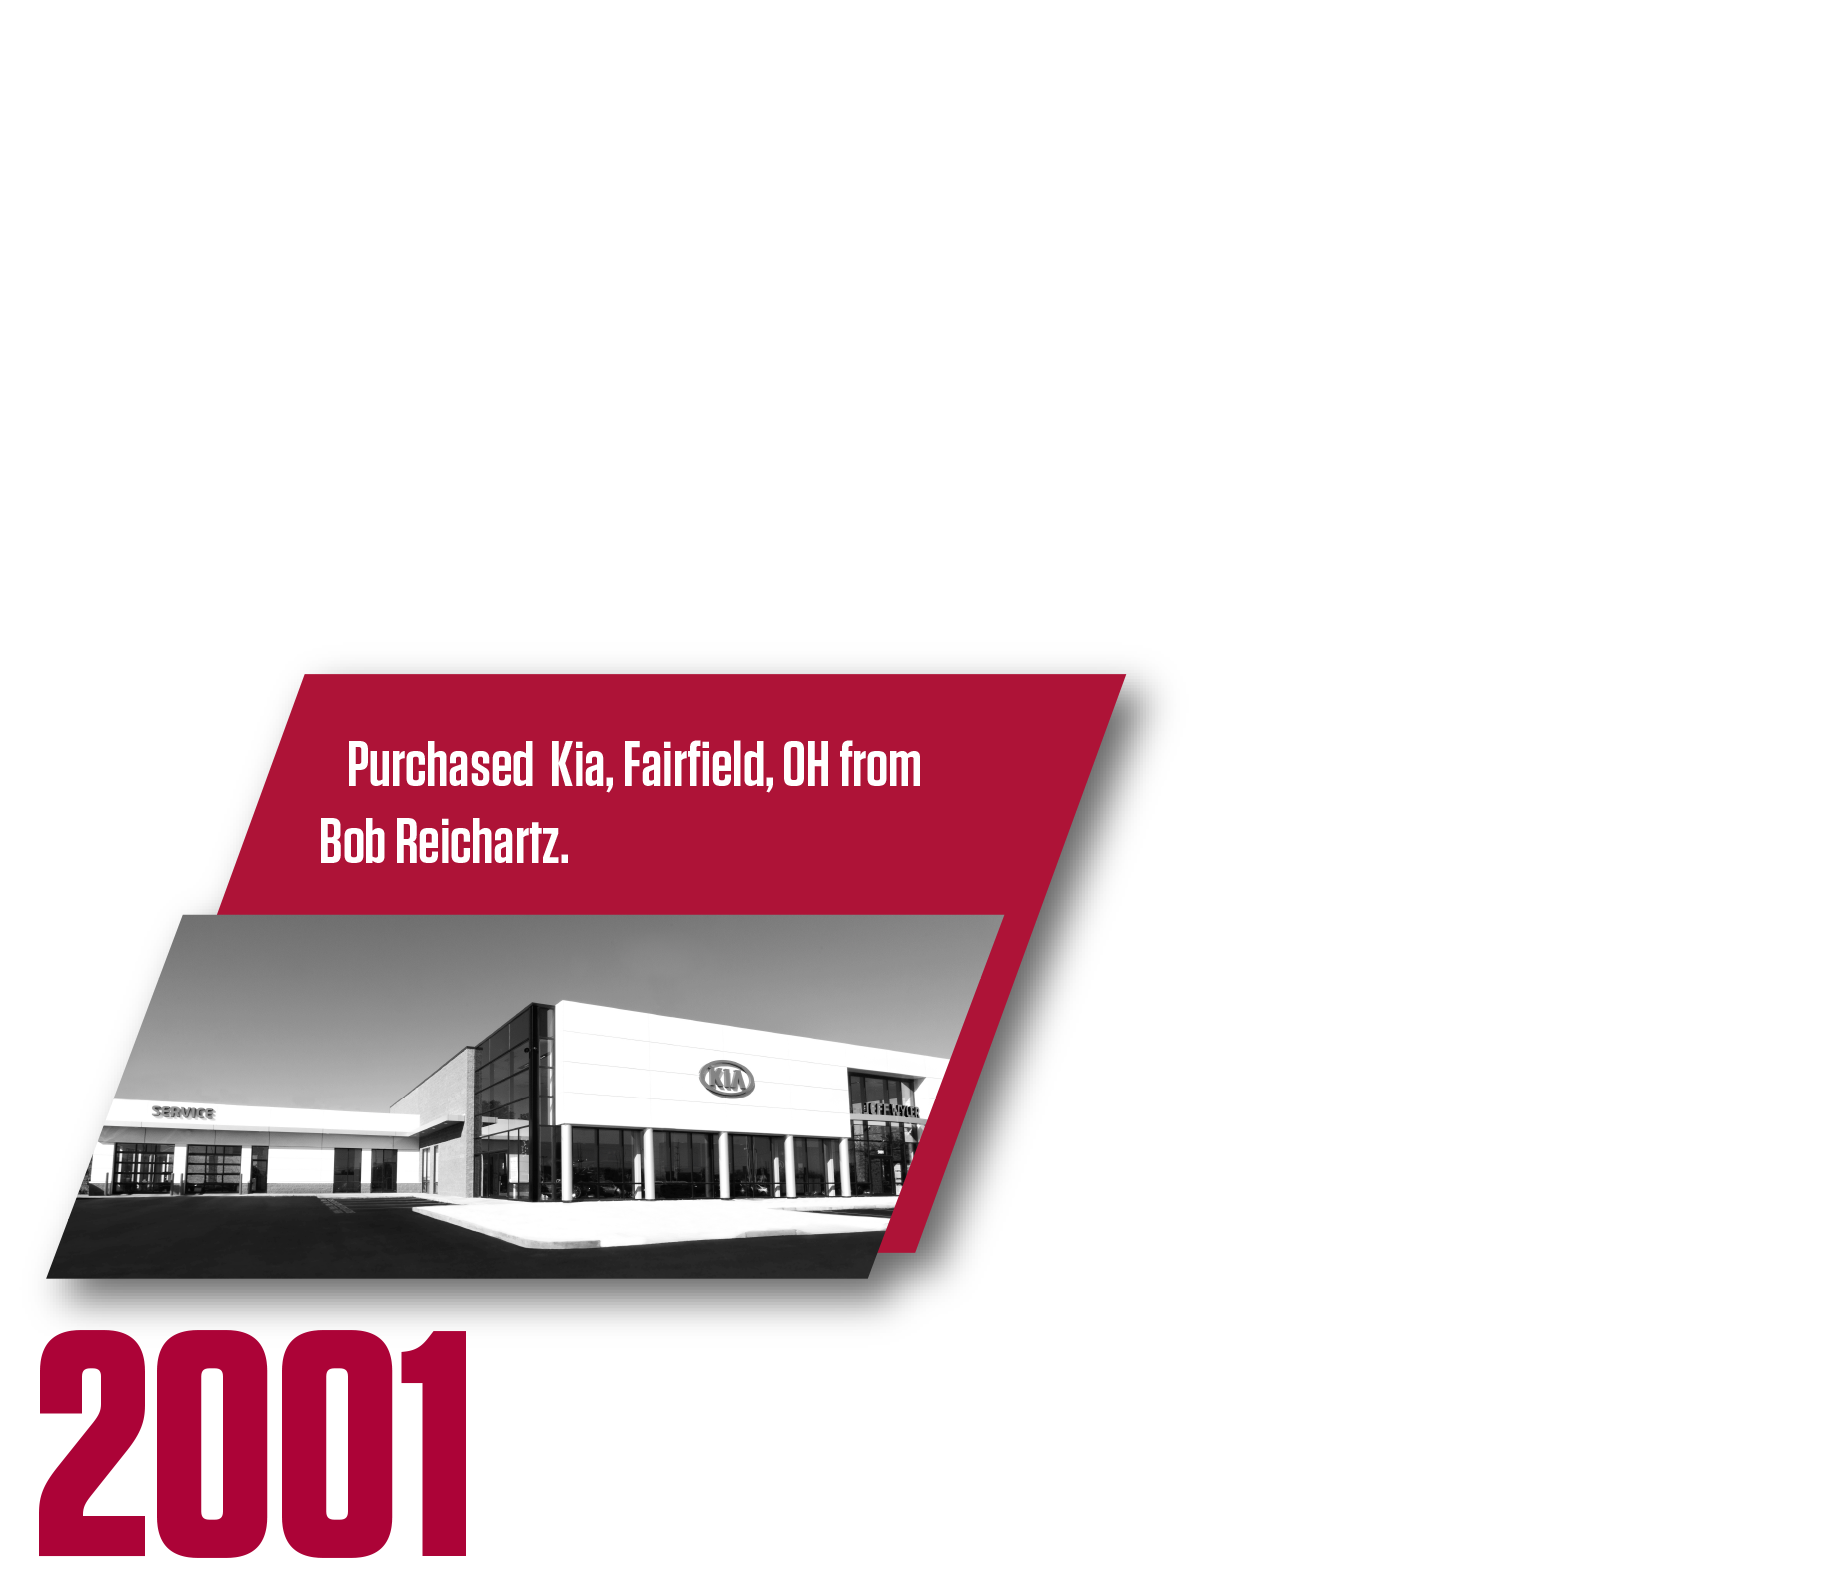
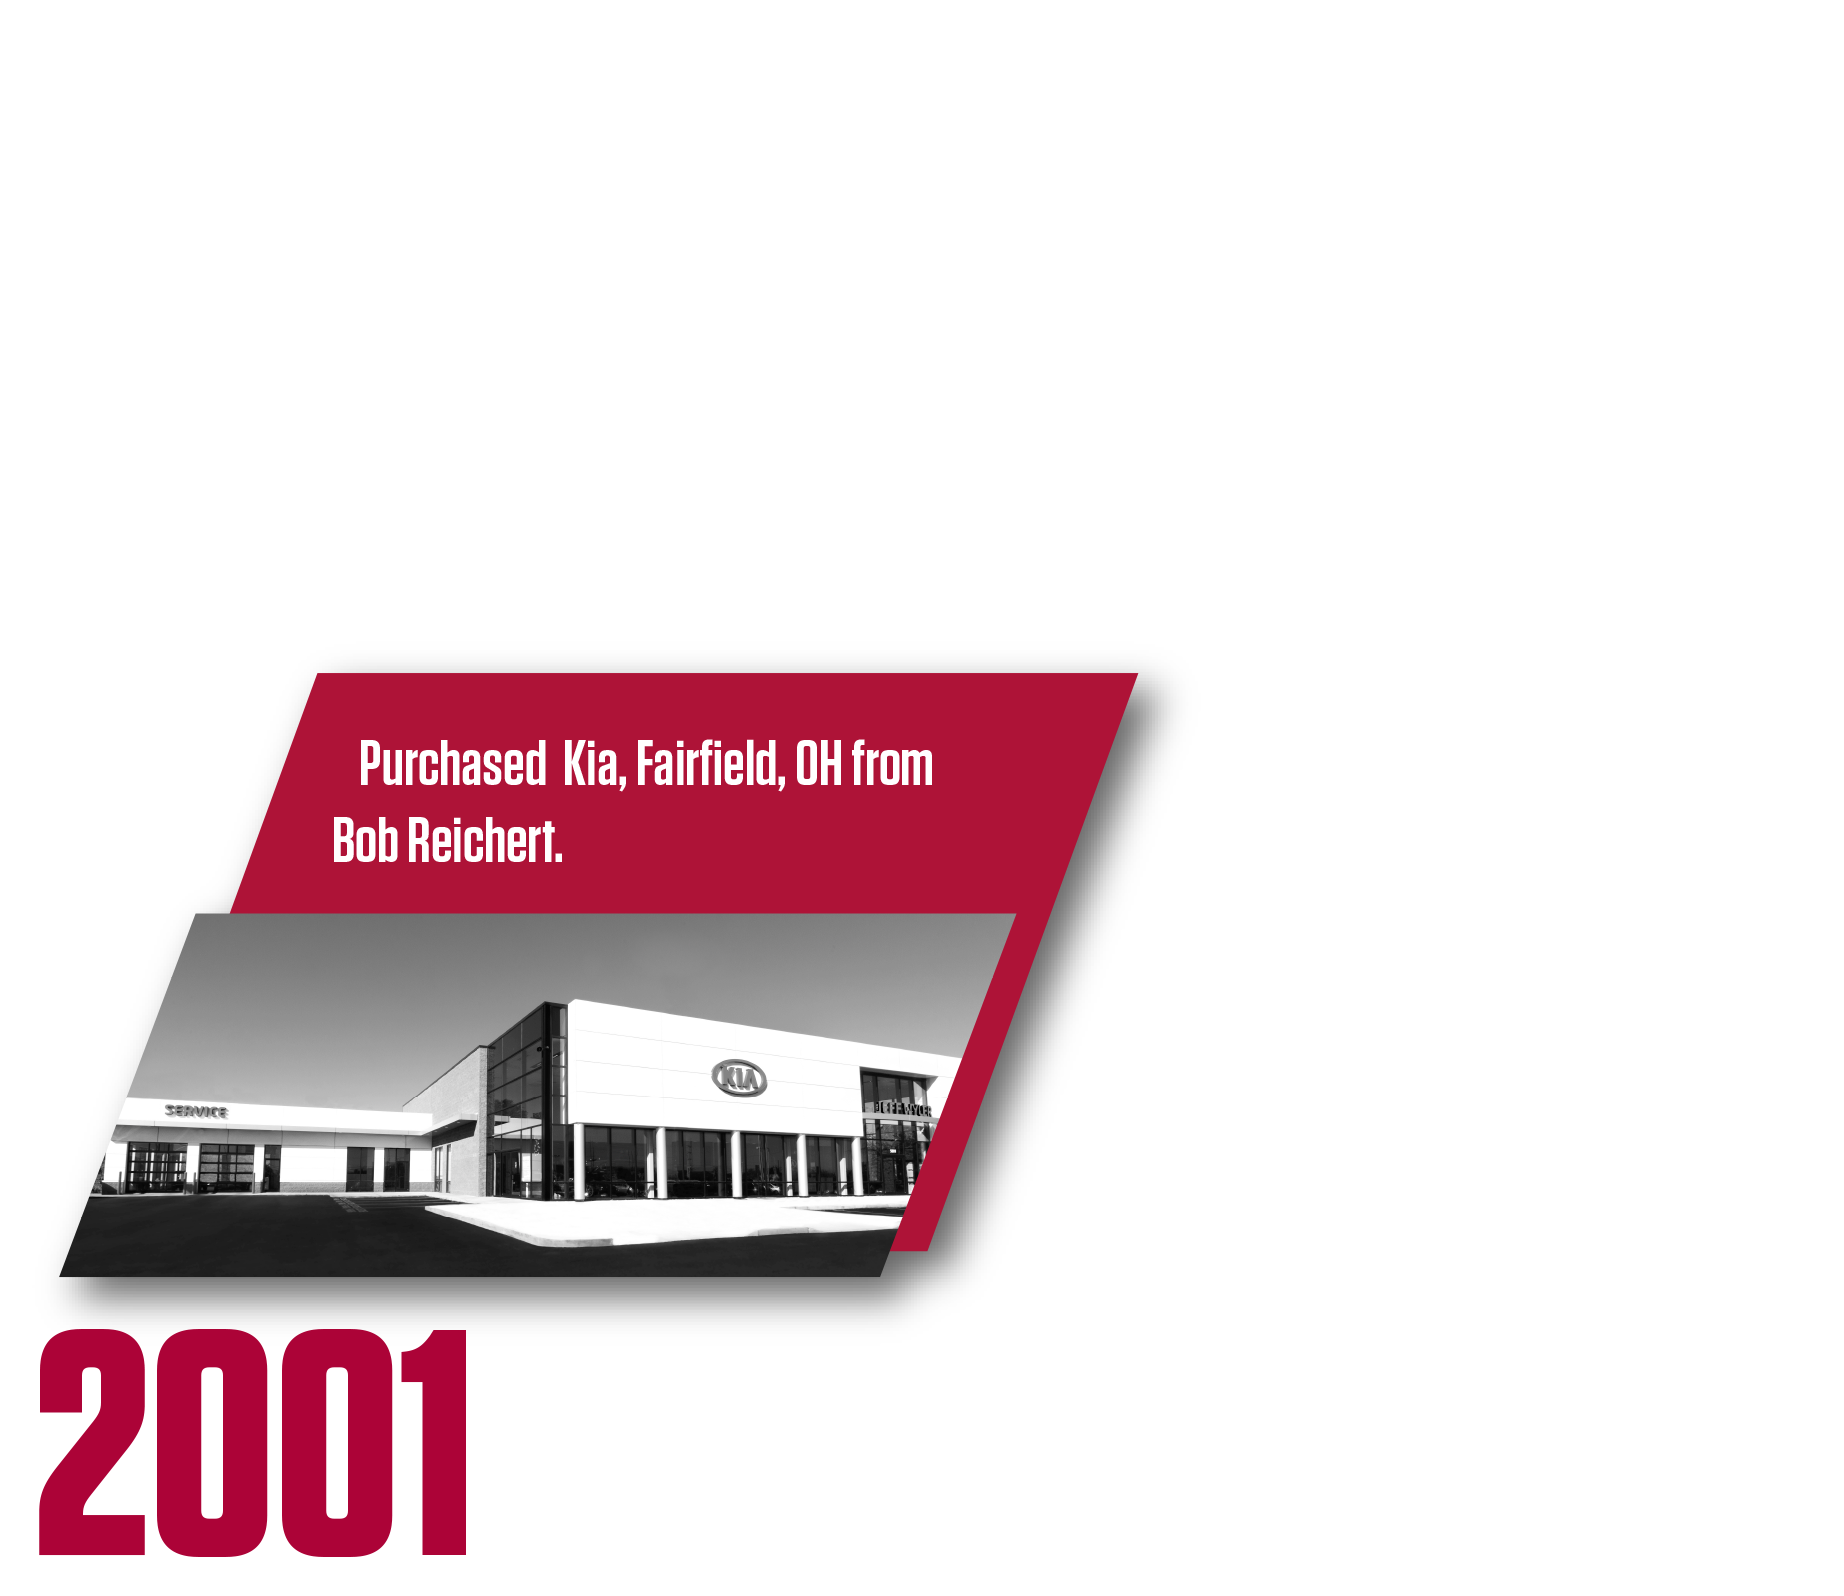
finished

diff --git a/CSS/oreo.css b/CSS/oreo.css
@@ -20,17 +20,18 @@ body{
 
     .wyler-back{
         background: url(../img/BKG2.JPG);
-        width: 612px;
+        width: 630px;
         /* background: url(../img/Background\ White\ 50.jpg); */
         background-size: 170%;
         background-position: center;
-        padding: 5em 0;
+        padding: 0em 0;
     }
 
 
     img{
         transition: 1s;
         width: 420px;
+        margin-top: 5em;
         /* overflow-x: hidden; */
         /* background: red; */
         /* margin: 0 -62px; */
@@ -43,114 +44,42 @@ body{
     }
 
 
-    .b{
+    .b, .j, .p{
+        width: 453px;
+    }
+
+    .d, .m, .r, .v{
         width: 440px;
     }
 
-
-    .img0{
-        margin-top: 3em;
-        /* padding-left: -2px ; */
-
+    .e, .k{
+        width: 445px;
     }
 
-    .img1{
-        margin-top: 3em;
-        /* padding-left: 3.8em; */
-    }
-    .img2{
-        /* padding-left: 19em; */
-        margin-top: 3em;
-    }
-    .img3{
-        /* padding-left: 41em; */
-        margin-top: 3em;
-    }
-    .img4{
-        /* padding-left: 62em; */
-        margin-top: 3em;
-    }
-    .img5{
-        /* padding-left: 62em; */
-        margin-top: 3em;
-    }
-    .img6{
-        /* padding-left: 62em; */
-        margin-top: 3em;
-    }
-    .img7{
-        /* padding-left: 62em; */
-        margin-top: 3em;
-    }
-    .img8{
-        /* padding-left: 62em; */
-        margin-top: 3em;
-    }
-    .img9{
-        /* padding-left: 62em; */
-        margin-top: 3em;
-    }
-    .img10{
-        /* padding-left: 62em; */
-        margin-top: 3em;
-    }
-    .img11{
-        /* padding-left: 62em; */
-        margin-top: 3em;
-    }
-    .img12{
-        /* padding-left: 62em; */
-        margin-top: 3em;
-    }
-    .img13{
-        /* padding-left: 62em; */
-        margin-top: 3em;
-    }
-    .img14{
-        /* padding-left: 62em; */
-        margin-top: 3em;
-    }
-    .img15{
-        /* padding-left: 62em; */
-        margin-top: 3em;
-    }
-    .img16{
-        /* padding-left: 62em; */
-        margin-top: 3em;
-    }
-    .img17{
-        /* padding-left: 62em; */
-        margin-top: 3em;
-    }
-    .img18{
-        /* padding-left: 62em; */
-        margin-top: 3em;
-    }
-    .img19{
-        /* padding-left: 62em; */
-        margin-top: 3em;
-    }
-    .img20{
-        /* padding-left: 62em; */
-        margin-top: 3em;
-    }
-    .img21{
-        /* padding-left: 62em; */
-        margin-top: 3em;
-    }
-    .img22{
-        /* padding-left: 62em; */
-        margin-top: 3em;
-    }
-    .img23{
-        /* padding-left: 62em; */
-        margin-top: 3em;
-    }
-    .img24{
-        /* padding-left: 62em; */
-        margin-top: 3em;
+    .f, .g, .h, .i{
+        width: 452px;
     }
 
+    .n, .o, .s, .t, .u{
+        width: 470px;
+    }
+
+    .l, .Q, .w, .x, .y{
+        width: 493px;
+    }
+
+
+    .l, .n, .Q, .t, .w, .x{
+        margin-top: -1em;
+    }
+
+    .d, .e, .k, .r, .t{
+        margin-top: 2em;
+    }
+
+    .v{
+        margin-top: 8em;
+    }
 
     .run{
         /* flex-wrap: wrap; */
@@ -181,7 +110,7 @@ body{
         background: url(../img/Background\ White\ 50.jpg);
         background-size: cover;
         background-position: center;
-        padding: 11.7em 0;
+        padding: 16em 0;
     }
     
     
@@ -204,6 +133,7 @@ body{
         transition: 1s;
         margin: 0 -103px;
         width: 400px;
+        margin-top: -1px;
         /* background: red; */
     }
     
@@ -213,127 +143,48 @@ body{
         /* transition: 1s; */
     }
 
-
-    .img0{
-        padding-top: 2em;
-        /* padding-left: -2px ; */
-
+    .a:hover{
+        transform: scale(1.1);
     }
 
-    .img1{
-        padding-top: 2em;
-        /* padding-left: 3.8em; */
+    .c, .v, .y{
+        margin-left: -150px;
     }
-    .img2{
-        /* padding-left: 19em; */
-        padding-top: 2em;
-    }
-    .img3{
-        /* padding-left: 41em; */
-        padding-top: 2em;
-    }
-    .img4{
-        /* padding-left: 62em; */
-        padding-top: 2em;
-    }
-    .img5{
-        /* padding-left: 62em; */
-        padding-top: 2em;
-    }
-    .img6{
-        /* padding-left: 62em; */
-        padding-top: 2em;
-    }
-    .img7{
-        /* padding-left: 62em; */
-        padding-top: 2em;
-    }
-    .img8{
-        /* padding-left: 62em; */
-        padding-top: 2em;
-    }
-    .img9{
-        /* padding-left: 62em; */
-        padding-top: 2em;
-    }
-    .img10{
-        /* padding-left: 62em; */
-        padding-top: 2em;
-    }
-    .img11{
-        /* padding-left: 62em; */
-        padding-top: 2em;
-    }
-    .img12{
-        /* padding-left: 62em; */
-        padding-top: 2em;
-    }
-    .img13{
-        /* padding-left: 62em; */
-        padding-top: 2em;
-    }
-    .img14{
-        /* padding-left: 62em; */
-        padding-top: 2em;
-    }
-    .img15{
-        /* padding-left: 62em; */
-        padding-top: 2em;
-    }
-    .img16{
-        /* padding-left: 62em; */
-        padding-top: 2em;
-    }
-    .img17{
-        /* padding-left: 62em; */
-        padding-top: 2em;
-    }
-    .img18{
-        /* padding-left: 62em; */
-        padding-top: 2em;
-    }
-    .img19{
-        /* padding-left: 62em; */
-        padding-top: 2em;
-    }
-    .img20{
-        /* padding-left: 62em; */
-        padding-top: 2em;
-    }
-    .img21{
-        /* padding-left: 62em; */
-        padding-top: 2em;
-    }
-    .img22{
-        /* padding-left: 62em; */
-        padding-top: 2em;
-    }
-    .img23{
-        /* padding-left: 62em; */
-        padding-top: 2em;
-    }
-    .img24{
-        /* padding-left: 62em; */
-        padding-top: 2em;
-    }
-    
- }
 
+    .l, .u, .Q{
+        margin-left: -120px;
+    }
 
- /* @media (min-width: 1024px) {
-     body{
-         max-width: 100%;
-         max-height: 100%;
-         overflow-x: hidden;
-     }
- } */
+    .m{
+        margin-left: -155px;
+    }
 
+    .n{
+        margin-left: -160px;
+    }
 
+    .o, .p{
+        margin-left: -170px;
+    }
+
+    .r, .s{
+        margin-left: -130px;
+    }
+
+    .w{
+        margin-left: -140px;
+    }
+
+    .x{
+        margin-left: -190px;
+    }
+
+}
 
 /* media query end */
 
 
 
-.parallax--bg, .han{
+.parallax--bg{
 	transition: initial;
 }

diff --git a/oreo.html b/oreo.html
@@ -40,7 +40,7 @@
 
                 <div class="han img0 col-md-1">
 
-                  <img class="a" src="./img/title.png" alt="img0" style="">
+                  <img class="a" src="./img/title-2.png" alt="img0" style="">
                     
                 </div>
 
@@ -122,9 +122,9 @@
 
                 </div>
 
-                <div class="o" class="han img14 col-1" style="">
+                <div class="han img15 col-1" style="">
                     
-                  <img src="./img/new-14.png" alt="img14" style="">
+                  <img class="o" src="./img/new-14.png" alt="img15" style="">
 
                 </div>
 
@@ -148,7 +148,7 @@
 
                 <div class="han img18 col-1" style="">
                     
-                  <img class="s" src="./img/new-18.png" alt="img19" style="">
+                  <img class="s" src="./img/new-18.png" alt="img18" style="">
 
                 </div>
 

diff --git a/JS/oreo.js b/JS/oreo.js
@@ -4,13 +4,13 @@ $(window).scroll(function(){
     console.log(wScroll)
 
     $('.parallax--bg').css('background-position', 
-    'center '+(wScroll*0.24)+'px')
+    'center '+(wScroll*0.05)+'px')
 
     // $('.parallax--bg').css('top', + (wScroll*.30)*5.2+'em');
 
     $('.han').css('top', + (wScroll*.005)*5.2+'em');
 
-    $('.han').css('right', + (wScroll*.005)*740+'em');
+    $('.han').css('right', + (wScroll*.005)*399+'em');
 
 
 
